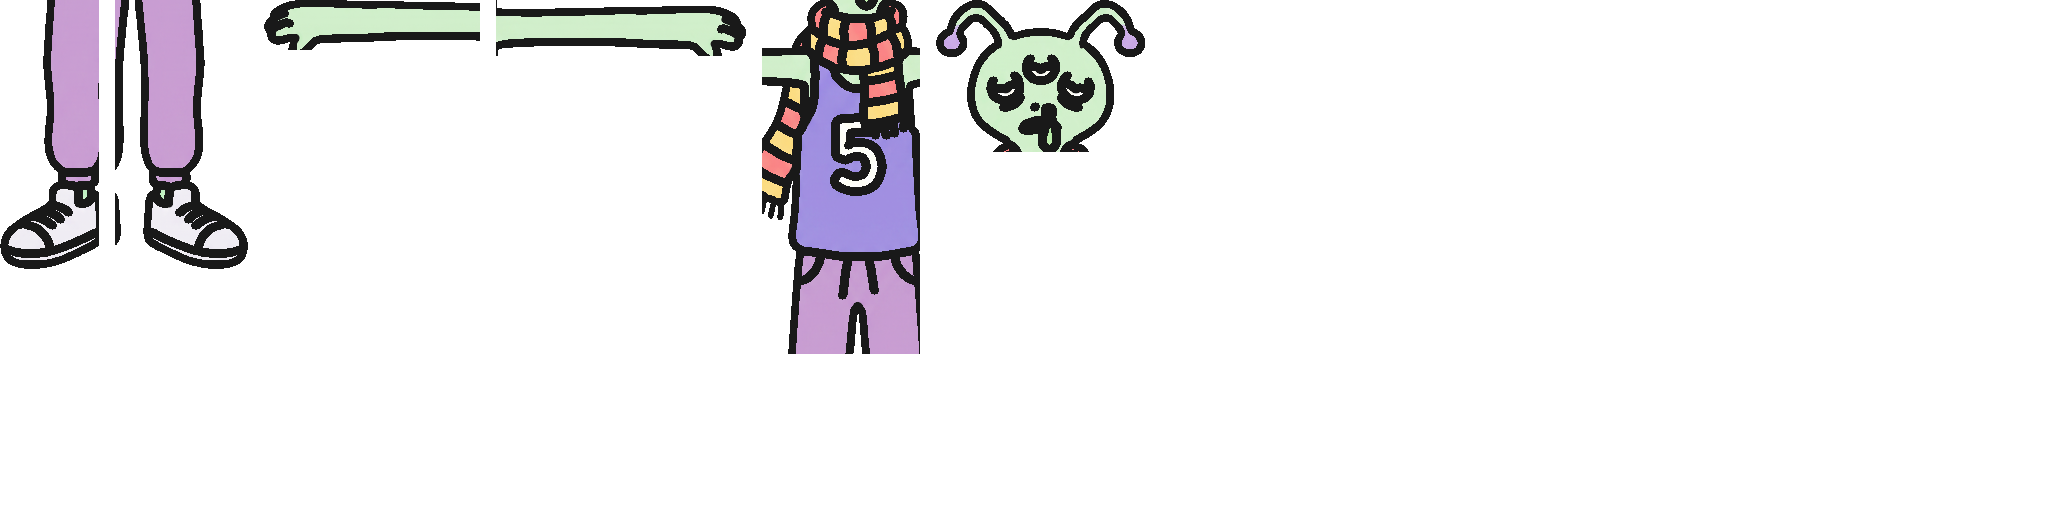
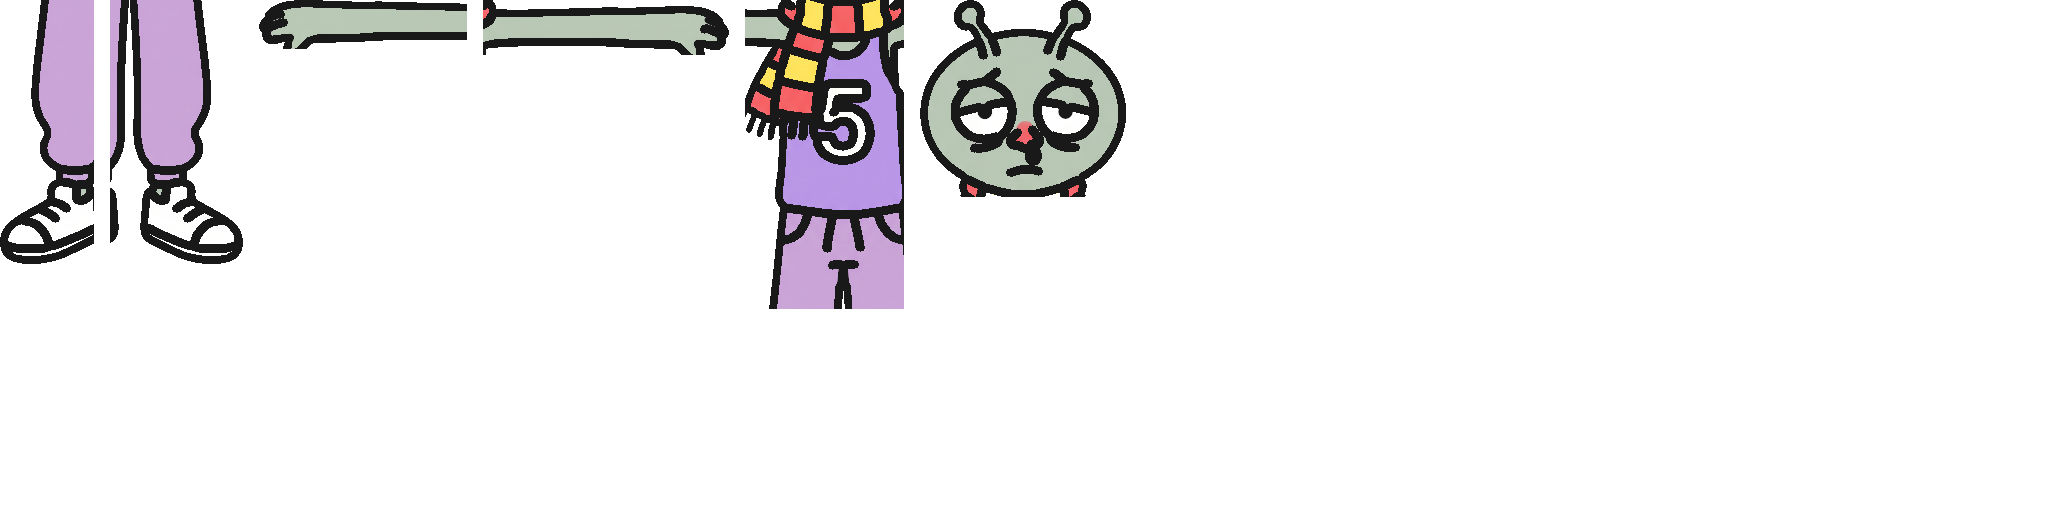
Aliens « grosse tête » : 8 élèves redessinés, découpe des têtes par le trait (DT.1–DT.3)
Claude-Session: https://claude.ai/code/session_01QntoMNZmz8BERd6cSAjSKB

Changed region(s): [[0.125, 0.0, 0.5625, 0.7188], [0.0, 0.0, 0.125, 0.5312]]

diff --git a/src/game/skins/cartoon/rigEquipes.ts b/src/game/skins/cartoon/rigEquipes.ts
@@ -7,106 +7,106 @@ import type { Rig } from '../../ui/marionnette';
 export const RIGS_EQUIPES: Record<string, Rig> = {
   'aliens-chouchou': {
     hauteur: 748,
-    bras: 38.0,
+    bras: 40.0,
     main: [-239.5, 0.0],
     pieces: {
-      jambeG: { cadre: [0, 0, 112, 317], pivot: [81.0, 9.0], pos: [-31.0, -308.0] },
-      jambeD: { cadre: [128, 0, 114, 317], pivot: [31.0, 9.0], pos: [31.0, -308.0] },
-      brasG: { cadre: [258, 0, 244, 50], pivot: [239.5, 22.0], pos: [-56.5, -527.0] },
-      brasD: { cadre: [518, 0, 245, 50], pivot: [4.5, 22.0], pos: [57.5, -527.0] },
-      tronc: { cadre: [779, 0, 123, 273], pivot: [61.0, 264.0], pos: [0.0, -308.0] },
-      tete: { cadre: [918, 0, 151, 185], pivot: [75.0, 176.0], pos: [0.0, -572.0] },
+      jambeG: { cadre: [0, 0, 112, 318], pivot: [81.0, 9.0], pos: [-31.0, -309.0] },
+      jambeD: { cadre: [128, 0, 115, 318], pivot: [31.0, 9.0], pos: [31.0, -309.0] },
+      brasG: { cadre: [259, 0, 244, 58], pivot: [239.5, 29.0], pos: [-56.5, -527.0] },
+      brasD: { cadre: [519, 0, 246, 58], pivot: [4.5, 29.0], pos: [57.5, -527.0] },
+      tronc: { cadre: [781, 0, 123, 245], pivot: [61.0, 236.0], pos: [0.0, -309.0] },
+      tete: { cadre: [920, 0, 211, 234], pivot: [105.0, 233.0], pos: [0.0, -515.0] },
     },
   },
   'aliens-contagieux': {
     hauteur: 748,
-    bras: 39.0,
-    main: [-211.5, 0.0],
+    bras: 37.0,
+    main: [-203.5, 0.0],
     pieces: {
-      jambeG: { cadre: [0, 0, 99, 269], pivot: [59.0, 9.0], pos: [-40.0, -260.0] },
-      jambeD: { cadre: [115, 0, 133, 269], pivot: [39.0, 9.0], pos: [39.0, -260.0] },
-      brasG: { cadre: [264, 0, 216, 50], pivot: [211.5, 21.0], pos: [-74.5, -539.0] },
-      brasD: { cadre: [496, 0, 250, 56], pivot: [4.5, 27.0], pos: [74.5, -539.0] },
-      tronc: { cadre: [762, 0, 158, 354], pivot: [79.0, 345.0], pos: [0.0, -260.0] },
-      tete: { cadre: [936, 0, 209, 152], pivot: [88.0, 143.0], pos: [0.0, -605.0] },
+      jambeG: { cadre: [0, 0, 94, 264], pivot: [54.0, 9.0], pos: [-40.0, -255.0] },
+      jambeD: { cadre: [110, 0, 133, 264], pivot: [40.0, 9.0], pos: [40.0, -255.0] },
+      brasG: { cadre: [259, 0, 208, 49], pivot: [203.5, 21.0], pos: [-74.5, -528.0] },
+      brasD: { cadre: [483, 0, 246, 55], pivot: [4.5, 27.0], pos: [75.5, -528.0] },
+      tronc: { cadre: [745, 0, 159, 309], pivot: [79.0, 300.0], pos: [0.0, -255.0] },
+      tete: { cadre: [920, 0, 206, 197], pivot: [84.0, 196.0], pos: [0.0, -552.0] },
     },
   },
   'aliens-delegue': {
     hauteur: 766,
-    bras: 38.0,
-    main: [-202.5, 0.0],
+    bras: 39.0,
+    main: [-245.5, 0.0],
     pieces: {
-      jambeG: { cadre: [0, 0, 114, 272], pivot: [68.0, 9.0], pos: [-50.0, -263.0] },
-      jambeD: { cadre: [130, 0, 114, 272], pivot: [48.0, 9.0], pos: [50.0, -263.0] },
-      brasG: { cadre: [260, 0, 207, 50], pivot: [202.5, 22.0], pos: [-94.5, -524.0] },
-      brasD: { cadre: [483, 0, 204, 50], pivot: [4.5, 22.0], pos: [95.5, -524.0] },
-      tronc: { cadre: [703, 0, 199, 310], pivot: [99.0, 301.0], pos: [0.0, -263.0] },
-      tete: { cadre: [918, 0, 141, 211], pivot: [72.0, 202.0], pos: [0.0, -564.0] },
+      jambeG: { cadre: [0, 0, 115, 326], pivot: [84.0, 9.0], pos: [-31.0, -317.0] },
+      jambeD: { cadre: [131, 0, 117, 326], pivot: [31.0, 9.0], pos: [31.0, -317.0] },
+      brasG: { cadre: [264, 0, 250, 57], pivot: [245.5, 28.0], pos: [-57.5, -541.0] },
+      brasD: { cadre: [530, 0, 252, 57], pivot: [4.5, 28.0], pos: [58.5, -541.0] },
+      tronc: { cadre: [798, 0, 125, 254], pivot: [62.0, 245.0], pos: [0.0, -317.0] },
+      tete: { cadre: [939, 0, 207, 234], pivot: [103.0, 233.0], pos: [0.0, -533.0] },
     },
   },
   'aliens-fouine': {
-    hauteur: 722,
-    bras: 50.0,
-    main: [-231.5, 0.0],
+    hauteur: 740,
+    bras: 38.0,
+    main: [-236.5, 0.0],
     pieces: {
-      jambeG: { cadre: [0, 0, 108, 295], pivot: [78.0, 9.0], pos: [-30.0, -286.0] },
-      jambeD: { cadre: [124, 0, 110, 295], pivot: [30.0, 9.0], pos: [30.0, -286.0] },
-      brasG: { cadre: [250, 0, 236, 66], pivot: [231.5, 32.0], pos: [-54.5, -504.0] },
-      brasD: { cadre: [502, 0, 237, 66], pivot: [4.5, 32.0], pos: [55.5, -504.0] },
-      tronc: { cadre: [755, 0, 119, 260], pivot: [59.0, 251.0], pos: [0.0, -286.0] },
-      tete: { cadre: [890, 0, 165, 194], pivot: [82.0, 185.0], pos: [0.0, -537.0] },
+      jambeG: { cadre: [0, 0, 111, 315], pivot: [80.0, 9.0], pos: [-31.0, -306.0] },
+      jambeD: { cadre: [127, 0, 113, 315], pivot: [30.0, 9.0], pos: [30.0, -306.0] },
+      brasG: { cadre: [256, 0, 241, 56], pivot: [236.5, 28.0], pos: [-56.5, -522.0] },
+      brasD: { cadre: [513, 0, 243, 56], pivot: [4.5, 28.0], pos: [56.5, -522.0] },
+      tronc: { cadre: [772, 0, 122, 244], pivot: [61.0, 235.0], pos: [0.0, -306.0] },
+      tete: { cadre: [910, 0, 166, 244], pivot: [87.0, 243.0], pos: [0.0, -497.0] },
     },
   },
   'aliens-grand': {
     hauteur: 880,
     bras: 45.0,
-    main: [-280.5, 0.0],
+    main: [-279.5, 0.0],
     pieces: {
-      jambeG: { cadre: [0, 0, 132, 368], pivot: [96.0, 9.0], pos: [-36.0, -359.0] },
-      jambeD: { cadre: [148, 0, 134, 368], pivot: [36.0, 9.0], pos: [36.0, -359.0] },
-      brasG: { cadre: [298, 0, 285, 57], pivot: [280.5, 25.0], pos: [-67.5, -621.0] },
-      brasD: { cadre: [599, 0, 287, 57], pivot: [4.5, 25.0], pos: [67.5, -621.0] },
-      tronc: { cadre: [902, 0, 144, 315], pivot: [72.0, 306.0], pos: [0.0, -359.0] },
-      tete: { cadre: [1062, 0, 170, 224], pivot: [84.0, 215.0], pos: [0.0, -665.0] },
+      jambeG: { cadre: [0, 0, 132, 370], pivot: [96.0, 9.0], pos: [-36.0, -361.0] },
+      jambeD: { cadre: [148, 0, 134, 370], pivot: [36.0, 9.0], pos: [36.0, -361.0] },
+      brasG: { cadre: [298, 0, 284, 57], pivot: [279.5, 25.0], pos: [-67.5, -619.0] },
+      brasD: { cadre: [598, 0, 286, 57], pivot: [4.5, 25.0], pos: [67.5, -619.0] },
+      tronc: { cadre: [900, 0, 144, 298], pivot: [72.0, 289.0], pos: [0.0, -361.0] },
+      tete: { cadre: [1060, 0, 235, 288], pivot: [144.0, 287.0], pos: [0.0, -590.0] },
     },
   },
   'aliens-petit': {
     hauteur: 581,
-    bras: 47.0,
-    main: [-120.5, 0.0],
+    bras: 28.0,
+    main: [-134.5, 0.0],
     pieces: {
-      jambeG: { cadre: [0, 0, 127, 127], pivot: [63.0, 9.0], pos: [-64.0, -118.0] },
-      jambeD: { cadre: [143, 0, 127, 127], pivot: [63.0, 9.0], pos: [63.0, -118.0] },
-      brasG: { cadre: [286, 0, 125, 54], pivot: [120.5, 25.0], pos: [-122.5, -260.0] },
-      brasD: { cadre: [427, 0, 125, 54], pivot: [4.5, 28.0], pos: [122.5, -260.0] },
-      tronc: { cadre: [568, 0, 254, 184], pivot: [127.0, 175.0], pos: [0.0, -118.0] },
-      tete: { cadre: [838, 0, 272, 292], pivot: [136.0, 288.0], pos: [0.0, -293.0] },
+      jambeG: { cadre: [0, 0, 86, 154], pivot: [57.0, 9.0], pos: [-29.0, -145.0] },
+      jambeD: { cadre: [102, 0, 87, 154], pivot: [29.0, 9.0], pos: [29.0, -145.0] },
+      brasG: { cadre: [205, 0, 139, 46], pivot: [134.5, 23.0], pos: [-53.5, -304.0] },
+      brasD: { cadre: [360, 0, 139, 46], pivot: [4.5, 23.0], pos: [54.5, -304.0] },
+      tronc: { cadre: [515, 0, 117, 191], pivot: [58.0, 182.0], pos: [0.0, -145.0] },
+      tete: { cadre: [648, 0, 219, 270], pivot: [109.0, 269.0], pos: [0.0, -312.0] },
     },
   },
   'aliens-populaire': {
     hauteur: 757,
-    bras: 36.0,
-    main: [-233.5, 0.0],
+    bras: 39.0,
+    main: [-241.5, 0.0],
     pieces: {
-      jambeG: { cadre: [0, 0, 110, 258], pivot: [80.0, 9.0], pos: [-30.0, -249.0] },
-      jambeD: { cadre: [126, 0, 111, 258], pivot: [30.0, 9.0], pos: [30.0, -249.0] },
-      brasG: { cadre: [253, 0, 238, 48], pivot: [233.5, 21.0], pos: [-55.5, -514.0] },
-      brasD: { cadre: [507, 0, 239, 48], pivot: [4.5, 21.0], pos: [55.5, -514.0] },
-      tronc: { cadre: [762, 0, 120, 304], pivot: [60.0, 295.0], pos: [0.0, -249.0] },
-      tete: { cadre: [898, 0, 204, 222], pivot: [102.0, 213.0], pos: [0.0, -544.0] },
+      jambeG: { cadre: [0, 0, 113, 322], pivot: [82.0, 9.0], pos: [-31.0, -313.0] },
+      jambeD: { cadre: [129, 0, 116, 322], pivot: [31.0, 9.0], pos: [31.0, -313.0] },
+      brasG: { cadre: [261, 0, 246, 57], pivot: [241.5, 28.0], pos: [-57.5, -535.0] },
+      brasD: { cadre: [523, 0, 249, 57], pivot: [4.5, 28.0], pos: [57.5, -535.0] },
+      tronc: { cadre: [788, 0, 124, 259], pivot: [62.0, 250.0], pos: [0.0, -313.0] },
+      tete: { cadre: [928, 0, 320, 236], pivot: [159.0, 235.0], pos: [0.0, -522.0] },
     },
   },
   'aliens-rapporteuse': {
-    hauteur: 730,
+    hauteur: 740,
     bras: 38.0,
-    main: [-234.5, 0.0],
+    main: [-236.5, 0.0],
     pieces: {
-      jambeG: { cadre: [0, 0, 109, 298], pivot: [79.0, 9.0], pos: [-30.0, -289.0] },
-      jambeD: { cadre: [125, 0, 112, 298], pivot: [30.0, 9.0], pos: [30.0, -289.0] },
-      brasG: { cadre: [253, 0, 239, 49], pivot: [234.5, 21.0], pos: [-54.5, -515.0] },
-      brasD: { cadre: [508, 0, 240, 49], pivot: [4.5, 21.0], pos: [55.5, -515.0] },
-      tronc: { cadre: [764, 0, 119, 275], pivot: [59.0, 266.0], pos: [0.0, -289.0] },
-      tete: { cadre: [899, 0, 257, 184], pivot: [128.0, 175.0], pos: [0.0, -555.0] },
+      jambeG: { cadre: [0, 0, 111, 315], pivot: [80.0, 9.0], pos: [-31.0, -306.0] },
+      jambeD: { cadre: [127, 0, 113, 315], pivot: [30.0, 9.0], pos: [30.0, -306.0] },
+      brasG: { cadre: [256, 0, 241, 56], pivot: [236.5, 28.0], pos: [-56.5, -522.0] },
+      brasD: { cadre: [513, 0, 243, 56], pivot: [4.5, 28.0], pos: [56.5, -522.0] },
+      tronc: { cadre: [772, 0, 122, 253], pivot: [61.0, 244.0], pos: [0.0, -306.0] },
+      tete: { cadre: [910, 0, 324, 231], pivot: [161.0, 230.0], pos: [0.0, -510.0] },
     },
   },
   'vers-chouchou': {

diff --git a/scripts/decoupe.py b/scripts/decoupe.py
@@ -1,7 +1,7 @@
 """
 Découpe un élève dessiné en T-pose (fond blanc) en marionnette articulée de six pièces.
 
-Usage : python3 scripts/decoupe.py <image source> <nom> <hauteur cible> <sortie.png> [--ver]
+Usage : python3 scripts/decoupe.py <image source> <nom> <hauteur cible> <sortie.png> [--ver] [--tete-encre]
 Écrit la texture (2048 × 512, pièces côte à côte) et affiche l'entrée de `rig.ts` en JSON.
 
 - Le trait est égalisé à l'échelle finale : le squelette de l'encre est redessiné à TRAIT pixels.
@@ -20,6 +20,8 @@ import numpy as np
 from skimage.morphology import skeletonize
 
 TRAIT = 9
+# Grosse tête posée sur les épaules, menton dans la bande des bras (Aliens « grosse tête », DT.1).
+TETE_ENCRE = '--tete-encre' in sys.argv
 LARGEUR, HAUTEUR = 2048, 512
 ECART = 16
 
@@ -131,8 +133,33 @@ def humanoide(img):
     cx0, cx1 = min(runs(a[cou]), key=lambda r: 0 if r[0] <= milieu < r[1] else abs((r[0] + r[1]) / 2 - milieu))
     sans_bras[cou:, : max(0, int(cx0) - 1)] = False
     sans_bras[cou:, int(cx1) + 1 :] = False
-    piece('tete', 0, cou + 4, 0, w, (milieu, cou), sans_bras)
-    piece('tronc', cou, entre + marge, tx0, tx1, (milieu, entre))
+    if TETE_ENCRE:
+        # Pas de cou dans la silhouette : la tête se reconnaît à son trait. Ce sont les zones de
+        # couleur fermées par l'encre qui commencent au-dessus des bras et finissent avant leur bas
+        # (visage, cheveux, antennes), plus l'encre qui les entoure.
+        rgb = img[..., :3].astype(int)
+        encre = (rgb.max(2) < 60) & a
+        n, lab = cv2.connectedComponents((a & ~encre).astype(np.uint8), connectivity=4)
+        tete = np.zeros_like(a)
+        for k in range(1, n):
+            ys, xs = np.nonzero(lab == k)
+            if ys.min() < by0 - marge and ys.max() < by1 and xs.min() > tx0 - (tx1 - tx0):
+                tete |= lab == k
+        noyau = cv2.getStructuringElement(cv2.MORPH_ELLIPSE, (2 * TRAIT + 1, 2 * TRAIT + 1))
+        tete = (cv2.dilate(tete.astype(np.uint8), noyau) > 0) & a
+        menton = int(np.nonzero(tete[:, milieu])[0].max())
+        piece('tete', 0, menton + 1, 0, w, (milieu, menton), tete)
+        # Le tronc et les bras ne gardent que le dessous de la tête (son intérieur est retiré).
+        reste = ~(cv2.erode(tete.astype(np.uint8), noyau) > 0)
+        piece('tronc', by0 - marge, entre + marge, tx0, tx1, (milieu, entre), reste)
+        for nom in ['brasG', 'brasD']:
+            m, piv, abs_ = pieces[nom]
+            pieces.pop(nom)
+        piece('brasG', by0 - marge, by1 + marge, 0, tx0 + marge, (tx0 + marge * 0.5, ym), reste)
+        piece('brasD', by0 - marge, by1 + marge, tx1 - marge, w, (tx1 - marge * 0.5, ym), reste)
+    else:
+        piece('tete', 0, cou + 4, 0, w, (milieu, cou), sans_bras)
+        piece('tronc', cou, entre + marge, tx0, tx1, (milieu, entre))
     piece('jambeG', entre - marge, h, 0, milieu, ((tx0 + milieu) // 2, entre))
     piece('jambeD', entre - marge, h, milieu, w, ((milieu + tx1) // 2, entre))
     bout = np.nonzero(a[by0:by1, : tx0].any(0))[0].min()

diff --git a/docs/decisions.md b/docs/decisions.md
@@ -497,3 +497,12 @@ Trois maquettes (carrousel, billets empilés, plein écran) ; Clément choisit l
 - **DH.2** — Mot d'excuse du Délégué : plus d'étiquette « Mot d'excuse ! » sur chaque goûter visé
   (la consigne le dit déjà, et elles se recouvraient). La bulle de consigne passe sous l'îlot quand,
   au-dessus, elle cacherait un goûter (sur toutes les cartes).
+
+## Aliens « grosse tête » (28/11)
+
+Demande de Clément : « Je commence à avoir un doute avec le design de mes aliens, je trouve leur qualité graphique en dessous des autres races ». Diagnostic (planche comparative, dossier du projet `equipes/diagnostic-aliens/`) : le trait n'était pas en cause (même épaisseur relative que les Écoliers et les Vers) ; la tête faisait 1/5 de la hauteur et les yeux étaient trois points noirs, d'où des bustes illisibles à 96 px ; les corps étaient ceux des Écoliers peints en vert, tous du même vert ; le Délégué avait une tête de robot.
+
+- **DT.1 — Les 8 Aliens sont redessinés en piste A « grosse tête »** (choisie par Clément parmi A « grosse tête » et B « gélatineux », toutes deux tirées sur le clan complet) : tête ronde d'un tiers de la hauteur, gros yeux blancs à paupières comme les Écoliers, antennes, un vert différent par rôle (pistache, turquoise, vert d'eau, citron, olive, sauge, émeraude, menthe), accessoires du rôle gardés (casquette, couettes, écharpe, capuche, cravate…). Le Délégué perd sa tête-boîte. Sources : `equipes/diagnostic-aliens/tests/A-<rôle>.png` (Higgsfield, nano_banana_2 2K, 2 cr l'image, 34 cr pour les tests et le clan A et B).
+- **DT.2 — Découpe des grosses têtes par le trait** (`scripts/decoupe.py --tete-encre`) : ces Aliens n'ont pas de cou, le menton descend entre les bras, et la coupe droite d'avant tranchait le visage. La tête est maintenant faite des zones de couleur fermées par l'encre qui commencent au-dessus des bras (visage, cheveux, antennes), avec leur contour ; le tronc et les bras perdent l'intérieur de la tête. Les autres bandes ne changent pas.
+- **DT.3 — Tenue miroir orange refaite** à partir des nouveaux dessins (`scripts/tenue-miroir.py aliens`).
+- À suivre : les vidéos de pouvoir des Aliens (`public/videos/cartoon/aliens*-*.mp4`) montrent encore l'ancien dessin ; à refaire avec le fil des vidéos.
